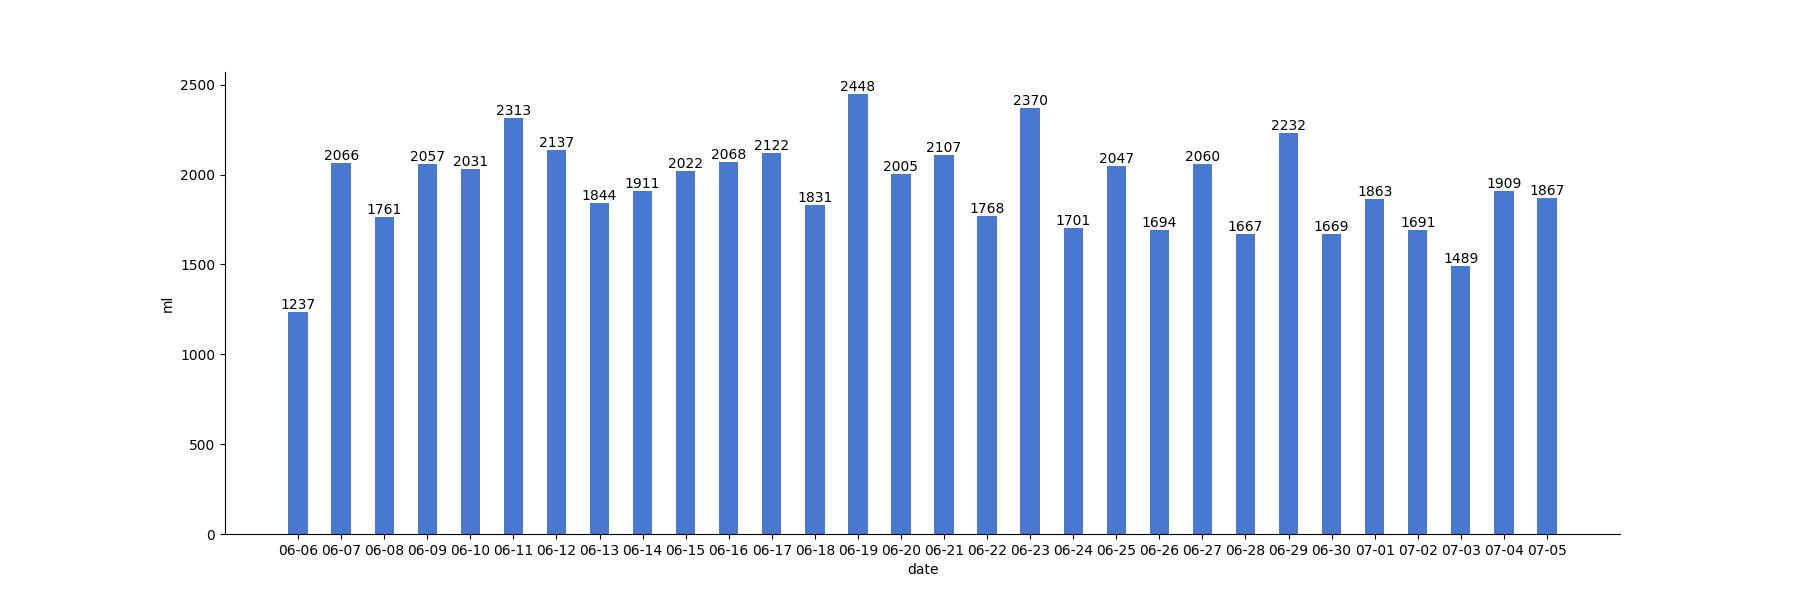
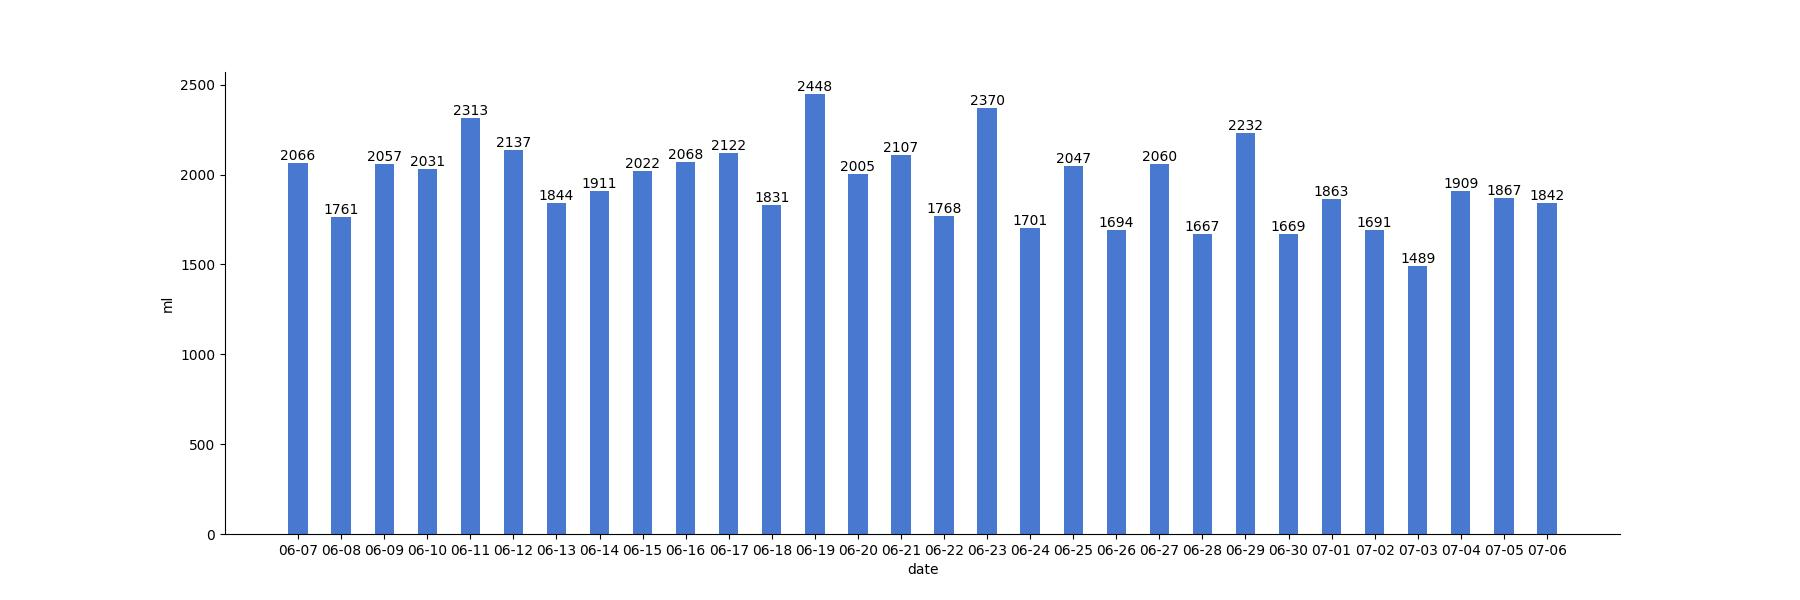
generated readme

diff --git a/README.md b/README.md
@@ -1,17 +1,3 @@
-# 今日饮水数据
-
-<div align=center>
-<img src="today.jpg" style="zoom: 100%;" />
-
-| 今日总饮水量 | 每小时平均饮水量 |
-| :----: | :----: |
-| 1765 | 110 |
-</div>
-
-| 日期 | 00:18:56 | 00:32:43 | 07:57:15 | 08:26:21 | 08:58:51 | 10:16:19 | 10:52:52 | 11:41:48 | 13:04:24 | 13:55:41 | 14:28:21 | 15:15:44 | 16:31:35 | 17:29:23 | 17:32:10 | 18:15:13 | 18:46:46 | 19:16:30 | 19:52:00 | 20:45:48 | 21:16:27 | 22:16:25 | 22:46:45 | 23:19:54 |
-| :----: | :----: | :----: | :----: | :----: | :----: | :----: | :----: | :----: | :----: | :----: | :----: | :----: | :----: | :----: | :----: | :----: | :----: | :----: | :----: | :----: | :----: | :----: | :----: | :----: |
-| 2022-07-06 | 46 | 51 | 101 | 61 | 66 | 115 | 43 | 94 | 82 | 33 | 69 | 72 | 57 | 200 | 67 | 57 | 45 | 35 | 90 | 50 | 88 | 101 | 109 | 33 |
-
 # 近30日饮水数据
 
 <div align=center>
@@ -19,8 +5,12 @@
 
 | 总饮水量 | 日均饮水量 |
 | :----: | :----: |
-| 57987 | 1932 |
+| 58592 | 1953 |
 </div>
+
+| 日期 | all | 00:18:56 | 00:32:43 | 07:57:15 | 08:26:21 | 08:58:51 | 10:16:19 | 10:52:52 | 11:41:48 | 13:04:24 | 13:55:41 | 14:28:21 | 15:15:44 | 16:31:35 | 17:29:23 | 17:32:10 | 18:15:13 | 18:46:46 | 19:16:30 | 19:52:00 | 20:45:48 | 21:16:27 | 22:16:25 | 22:46:45 | 23:19:54 | 23:59:40 |
+| :----: | :----: | :----: | :----: | :----: | :----: | :----: | :----: | :----: | :----: | :----: | :----: | :----: | :----: | :----: | :----: | :----: | :----: | :----: | :----: | :----: | :----: | :----: | :----: | :----: | :----: | :----: |
+| 2022-07-06 | 1842 | 46 | 51 | 101 | 61 | 66 | 115 | 43 | 94 | 82 | 33 | 69 | 72 | 57 | 200 | 67 | 57 | 45 | 35 | 90 | 50 | 88 | 101 | 109 | 33 | 77 |
 
 | 日期 | all | 00:35:06 | 08:01:22 | 08:57:58 | 10:15:28 | 11:14:40 | 12:14:32 | 13:00:58 | 15:00:45 | 16:00:28 | 17:23:51 | 17:32:47 | 19:03:04 | 20:19:50 | 21:51:33 | 22:18:40 | 22:25:22 | 22:52:39 | 23:22:15 |
 | :----: | :----: | :----: | :----: | :----: | :----: | :----: | :----: | :----: | :----: | :----: | :----: | :----: | :----: | :----: | :----: | :----: | :----: | :----: | :----: |
@@ -141,8 +131,4 @@
 | 日期 | all | 00:29:17 | 00:52:36 | 02:21:34 | 02:44:21 | 03:51:08 | 03:54:14 | 12:06:57 | 12:38:51 | 14:39:14 | 15:14:01 | 15:49:07 | 16:19:33 | 16:53:48 | 17:26:34 | 17:56:25 | 18:27:41 | 18:41:15 | 19:08:04 | 19:39:58 | 20:22:37 | 20:59:27 | 21:44:50 | 22:16:11 | 22:45:08 | 23:38:15 | 23:51:41 |
 | :----: | :----: | :----: | :----: | :----: | :----: | :----: | :----: | :----: | :----: | :----: | :----: | :----: | :----: | :----: | :----: | :----: | :----: | :----: | :----: | :----: | :----: | :----: | :----: | :----: | :----: | :----: | :----: |
 | 2022-06-06 | 1237 | 55 | 33 | 54 | 35 | 25 | 22 | 23 | 25 | 39 | 38 | 79 | 98 | 28 | 93 | 70 | 38 | 75 | 14 | 15 | 88 | 33 | 26 | 66 | 33 | 57 | 75 |
-
-| 日期 | all | 00:04:29 | 00:27:01 | 00:47:10 | 07:55:19 | 08:38:13 | 09:35:30 | 10:13:15 | 11:21:57 | 12:17:43 | 12:51:25 | 13:05:57 | 15:20:36 | 16:31:03 | 17:17:56 | 17:43:07 | 18:08:20 | 18:56:24 | 19:27:48 | 20:06:43 | 20:57:25 | 21:50:17 | 22:29:08 | 23:04:28 | 23:40:56 |
-| :----: | :----: | :----: | :----: | :----: | :----: | :----: | :----: | :----: | :----: | :----: | :----: | :----: | :----: | :----: | :----: | :----: | :----: | :----: | :----: | :----: | :----: | :----: | :----: | :----: | :----: |
-| 2022-06-05 | 1629 | 39 | 27 | 15 | 82 | 51 | 36 | 37 | 48 | 87 | 56 | 56 | 100 | 88 | 200 | 35 | 76 | 101 | 77 | 90 | 70 | 102 | 49 | 78 | 29 |
 
